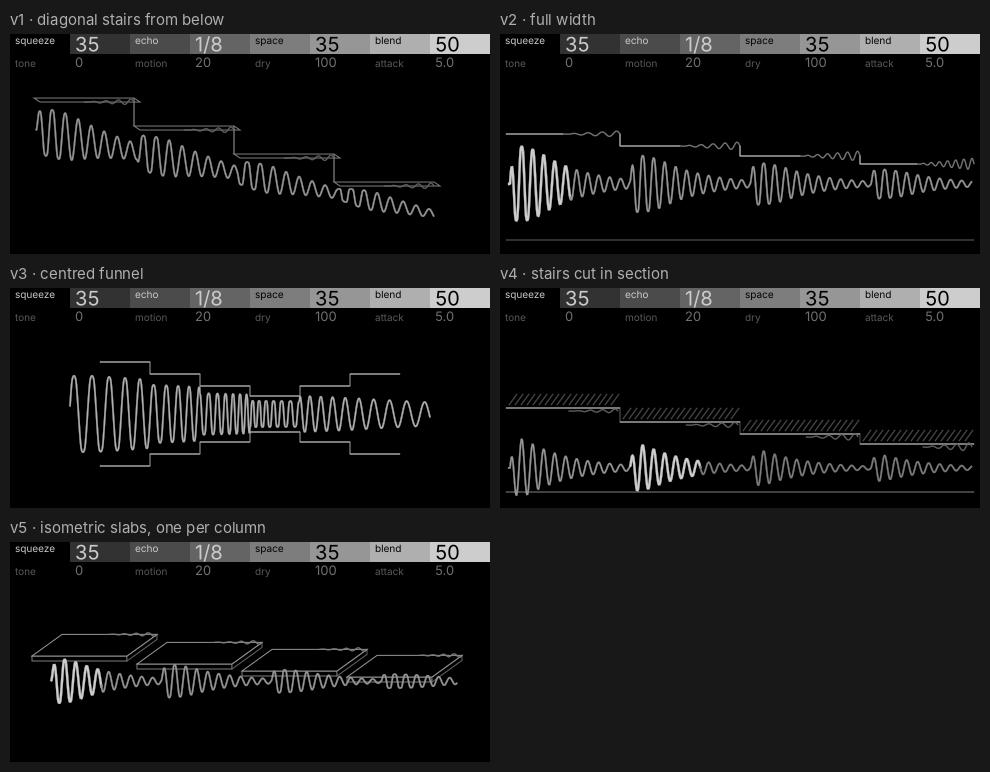
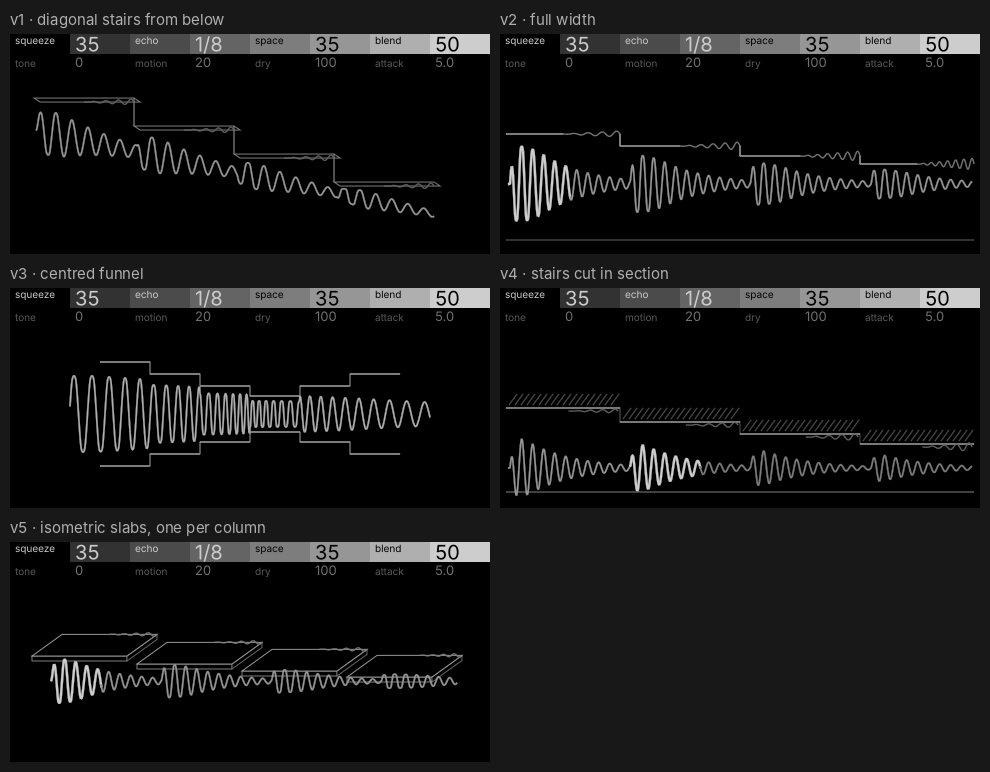
screens/clew: pass 05 v1, a lower, wider wave so its peaks lint clean
Claude-Session: https://claude.ai/code/session_01982uVmDevhpH42y95CSGyP

Changed region(s): [[0.0303, 0.1244, 0.4545, 0.2798]]

diff --git a/screens/clew/passes/05-revision/gen.py b/screens/clew/passes/05-revision/gen.py
@@ -86,8 +86,8 @@ def v1_diagonal():
     # the wave threads under the stairs, its centre falling with them and each tread pressing its swell
     centre = lambda x: 96 + (x - 24) * 0.21
     lim = lambda x: next((centre(x) - y - 6 for (a, b, y) in treads if a <= x < b), 6)
-    env = lambda x: envelope(x, 26, 100, [40, 32, 25, 18], fall=0.016)
-    F.line(wave(26, 424, centre, env, lim, period=13.0, step=0.4), LINE, G[5])
+    env = lambda x: envelope(x, 26, 100, [32, 26, 20, 15], fall=0.016)
+    F.line(wave(26, 424, centre, env, lim, period=16.0, step=0.4), LINE, G[5])
     return F
 
 
